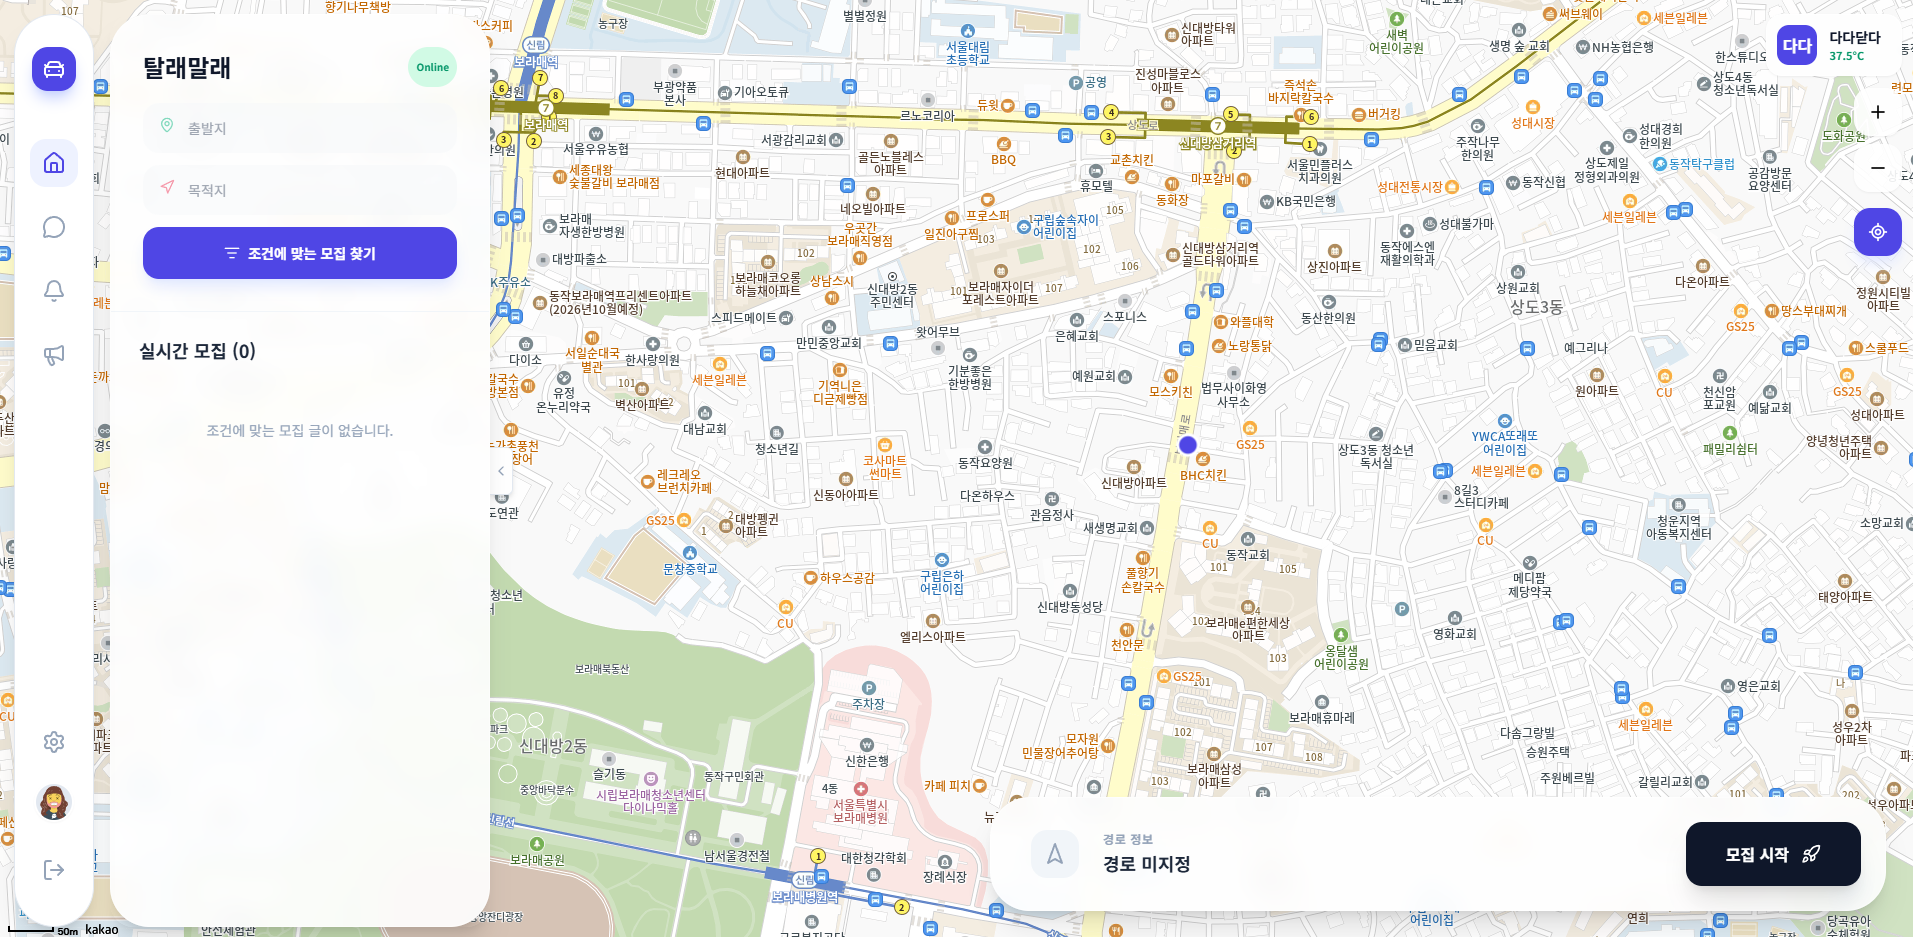
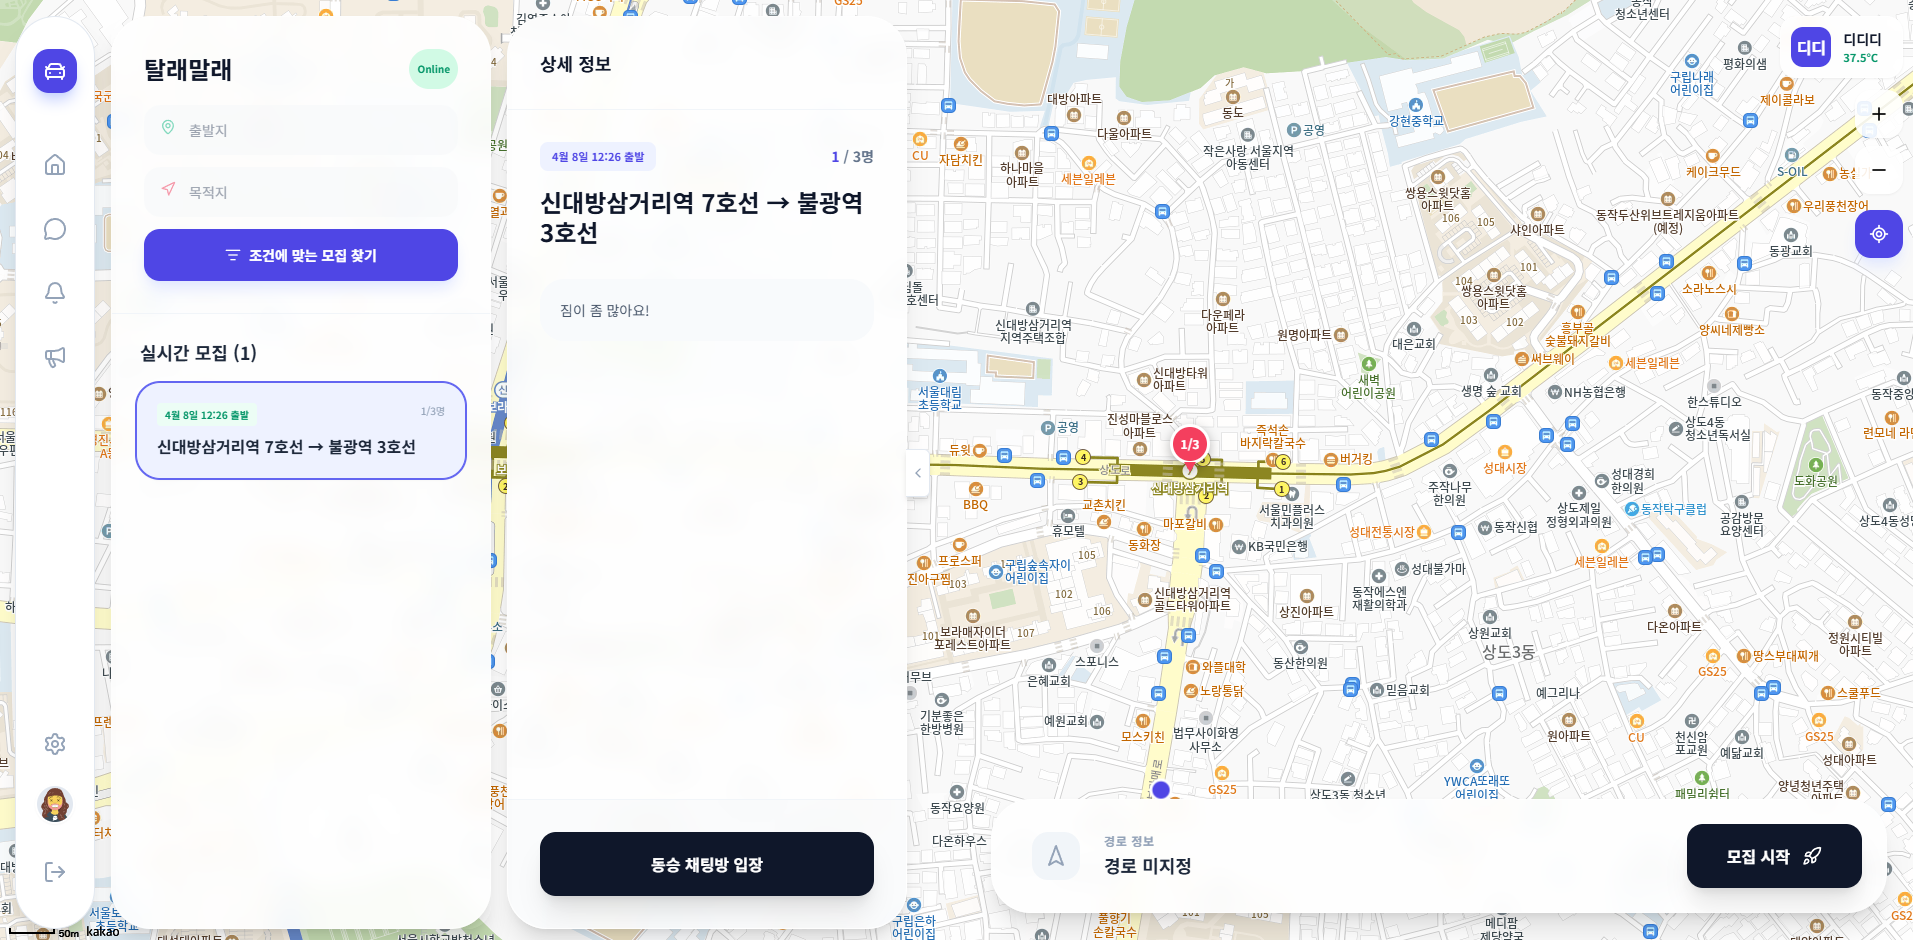
TalleMalle 동시성 보강 + 실시간 브로드캐스트(TS4) 추가
- 트러블슈팅 3: 사고1(데드락 로그)·사고2(갱신 손실) 2분할, 단일 행 락 직렬화로 데드락 여지 해소 서술
- 트러블슈팅 4 신설: WebSocket+STOMP 프로토콜 비교표·Pub/Sub 브로드캐스트·AFTER_COMMIT, socket-sequence 다이어그램 연결
- nGrinder 이미지 TPS-only로 정리(응답시간 차트 제거)
- 메인 이미지 교체 + 참여/시퀀스 증거 이미지 추가
- 본문 산문 따옴표 전부 제거

diff --git a/layouts/projects/single.html b/layouts/projects/single.html
@@ -188,6 +188,25 @@
     .pd-content tbody tr:nth-child(even) td {
         background: rgba(255, 255, 255, 0.02);
     }
+    .pd-content .highlight,
+    .pd-content pre.chroma {
+        background: #0b1020 !important;
+    }
+    .pd-content pre.chroma {
+        padding: 0.9rem 1.1rem;
+        border: 1px solid var(--border);
+        border-radius: 10px;
+        overflow-x: auto;
+        margin: 1.1rem 0;
+        font-size: 0.84rem;
+        line-height: 1.55;
+    }
+    .pd-content pre code {
+        background: transparent;
+        padding: 0;
+        border-radius: 0;
+        font-size: inherit;
+    }
 
     /* ===== 추가 섹션 (기술 스택 / 아키텍처 / 기여) ===== */
     .pd-block {

diff --git a/content/projects/tallemalle.md b/content/projects/tallemalle.md
@@ -28,7 +28,7 @@ contributions:
       - "무한 스크롤 & 클라이언트 필터링"
 ---
 
-## 🗺 메인 화면 (담당 영역)
+## 메인 화면 (담당 영역)
 
 저는 서비스의 핵심 진입점인 **메인 화면**을 담당했습니다. 카카오 지도 API를 활용해 사용자 위치를 기반으로 주변 모집글을 지도 위에 실시간으로 표시했습니다.
 
@@ -36,9 +36,9 @@ contributions:
 - **지도** - 위치별 마커를 클릭해 모집글 상세 확인
 - **우측 하단** - 원하는 시간대로 모집글 직접 생성
 
-![메인 화면 - 지도 기반 주변 모집글 조회](images/projects/tallemalle/main.png)
+![TalleMalle 메인 화면 - 지도와 실시간 모집글](images/projects/tallemalle/main.png)
 
-### 🔧 트러블슈팅 1. 모집글 목록 조회 N+1 - 쿼리 1001회를 2회로
+### 트러블슈팅 1. 모집글 목록 조회 N+1 - 쿼리 1001회를 2회로
 
 #### 문제 상황
 
@@ -50,8 +50,6 @@ contributions:
 초당 2.3건밖에 처리하지 못했고, 사용자 입장에서는 **리스트 탭을 누르고 21초 동안 화면이 멈춰 있는** 치명적인 상태였습니다.
 
 ![nGrinder TPS (개선 전) - 평균 약 2.3](images/projects/tallemalle/ngrinder-tps.png)
-
-![nGrinder 평균 응답 시간 / Vuser (개선 전) - 약 21초 · Vuser 52](images/projects/tallemalle/ngrinder-time.png)
 
 #### 원인 분석
 
@@ -94,5 +92,185 @@ contributions:
 
 ![nGrinder TPS (개선 후) - 약 9](images/projects/tallemalle/ngrinder-tps-after.png)
 
-![nGrinder 평균 응답 시간 / Vuser (개선 후) - 약 5초](images/projects/tallemalle/ngrinder-time-after.png)
+### 트러블슈팅 2. 지도 전체 조회 → 화면 경계 조회 + 디바운싱
+
+#### 문제 상황
+
+초기 구현에서는 메인 화면에서 모집 중인 모집글을 전체 조회한 뒤, 프론트엔드에서 지도 영역에 맞게 필터링하는 방식이었습니다. 기능은 동작했지만 두 가지 비효율이 있었습니다.
+
+- **화면 밖 데이터까지 전송** - 사용자가 보고 있는 지도 영역과 무관하게 전국의 모집글을 모두 내려받아, 데이터가 쌓일수록 응답 크기가 선형으로 커졌습니다.
+- **지도 이동마다 과잉 요청** - 지도는 이동·확대·축소가 잦은데, 이동이 멈출 때마다 발생하는 `idle` 이벤트가 연속으로 수십 번 발생해 짧은 시간에 API가 반복 호출됐습니다. 서버 부하는 물론 카카오 지도 API 쿼터까지 위협하는 구조였습니다.
+
+#### 해결 과정
+
+화면에 보이는 만큼만, 이동이 끝났을 때만 조회한다는 목표로 세 가지를 적용했습니다.
+
+**① 지도 경계 좌표 기반 조회**
+
+프론트엔드에서 지도의 남서(SW)·북동(NE) 좌표를 파라미터로 전송하고, 백엔드는 위·경도 범위 조건으로 화면 안에 있는 모집글만 조회하도록 변경했습니다.
+
+```java
+// RecruitRepository
+@Query("SELECT r FROM Recruit r JOIN FETCH r.owner " +
+       "WHERE r.startLat BETWEEN :swLat AND :neLat " +
+       "AND r.startLng BETWEEN :swLng AND :neLng " +
+       "AND r.status != :status")
+Slice<Recruit> findActiveRecruitsInBounds(...);
+```
+
+```js
+// Map.vue — 지도 이동이 멈추면 현재 경계 좌표를 부모로 전달
+window.kakao.maps.event.addListener(map, 'idle', () => {
+  const bounds = map.getBounds()
+  emit('bounds-changed', {
+    swLat: bounds.getSouthWest().getLat(), swLng: bounds.getSouthWest().getLng(),
+    neLat: bounds.getNorthEast().getLat(), neLng: bounds.getNorthEast().getLng(),
+  })
+})
+```
+
+**② 디바운싱** (300ms)
+
+지도 이동 중 연속으로 발생하는 요청을 막기 위해, 마지막 이벤트로부터 0.3초간 추가 입력이 없을 때 단 1회만 API를 호출하도록 처리했습니다.
+
+```js
+// Main.vue
+let mapSearchTimeout = null
+const handleSearchRecruits = (bounds) => {
+  if (mapSearchTimeout) clearTimeout(mapSearchTimeout) // 이전 예약 취소
+  mapSearchTimeout = setTimeout(async () => {
+    const res = await api.searchRecruits({ ...bounds, page, size })
+    // ...
+  }, 300)
+}
+```
+
+**③ Slice 페이징 + 무한 스크롤**
+
+경계 안의 결과도 한 번에 다 내리지 않고, `Page` 대신 `Slice`를 사용해 COUNT 쿼리 없이 `limit + 1`로 다음 페이지 존재 여부만 판단하도록 했습니다. 사용자가 목록을 스크롤할 때 다음 페이지를 이어서 로드합니다.
+
+#### 결과
+
+- **화면 밖 데이터 전송 제거** → 응답 페이로드와 조회 대상이 지도 영역 단위로 한정되어, 전체 모집글 수가 늘어도 조회 비용이 일정하게 유지
+- **지도 이동 중 다수 요청을 최종 1회로 축소** → 불필요한 네트워크 요청 약 90% 차단
+- **카카오 지도 API 호출량 감소** → 쿼터 여유 확보
+
+같은 전체 조회 설계에서 출발한 문제였지만, 트러블슈팅 1이 **레코드당 쿼리 수**(N+1)를 줄인 것이라면, 트러블슈팅 2는 **조회하는 레코드 수와 요청 빈도 자체**를 줄인 개선이었습니다. 데이터가 많아질수록 둘의 효과가 함께 커지는 구조를 만든 것이 핵심입니다.
+
+![지도 조회 흐름 - 디바운싱 → Bounds 공간 쿼리 → Slice 응답](images/projects/tallemalle/bounds-sequence.png)
+
+`Vue 3` `Kakao Maps API` `Debouncing` `Spring Data JPA` `Slice` `위경도 범위 쿼리`
+
+### 트러블슈팅 3. 동시 참여 요청의 동시성 제어 - 오버부킹 차단
+
+#### 문제 상황
+
+택시 합승은 **정원이 정해진 한정 자원**입니다. 정원 4명 중 마지막 1자리가 남은 모집글에 **여러 명이 동시에 참여 버튼을 누르는** 상황이 충분히 발생할 수 있었습니다. 단순한 조회 후 비교 로직은 이 경우 위험합니다. 두 요청이 거의 동시에 들어오면 **둘 다 아직 자리 있음으로 통과**하는 **경쟁 상태**(race condition)가 생깁니다.
+
+이를 검증하기 위해 한 모집글에 동시 참여 요청을 몰아 부하 테스트를 진행하자, 두 가지 사고가 관측됐습니다.
+
+**사고 1. 데드락으로 인한 500 에러**
+
+여러 트랜잭션이 동시에 락을 확보하려다 서로의 락을 기다리는 교착 상태(deadlock)에 빠졌고, 일부 요청이 강제 롤백되며 Vuser에게 500 에러가 반환됐습니다.
+
+```text
+java.sql.SQLTransactionRollbackException: (conn=84) Deadlock found when trying to get lock; try restarting transaction
+	at org.mariadb.jdbc.export.ExceptionFactory...
+```
+
+**사고 2. 갱신 손실로 인한 인원수 불일치**
+
+`participations` 테이블에는 **4명**이 들어갔는데 `recruits.current_capacity` 카운터는 **2**에 그쳐 데이터 정합성이 깨졌습니다. 동시에 들어온 트랜잭션들이 **같은 값을 읽고 각자 +1 해 덮어쓰면서**(lost update) 증가분이 유실된 것입니다.
+
+![문제 - participations 4건 (실제 참여자)](images/projects/tallemalle/join-before-participations.png)
+
+![문제 - current_capacity 2 (실제 4와 불일치)](images/projects/tallemalle/join-before-capacity.png)
+
+#### 락 전략 의사결정
+
+동시성 제어 방식을 두고 낙관적 락과 비관적 락을 비교했습니다.
+
+| 방식 | 동작 | 이 상황에서의 판단 |
+|------|------|---------------------|
+| 낙관적 락 (`@Version`) | 충돌을 사후 감지 → 예외 발생 → 재시도 | 마지막 한 자리에 요청이 몰리면 **충돌이 잦아** 재시도 비용·실패율이 큼 ❌ |
+| **비관적 락** (`PESSIMISTIC_WRITE`) | DB 행 배타락으로 동시 요청을 **직렬화** | 임계 영역이 짧고 충돌이 잦은 합승 시나리오에 적합 ✅ **채택** |
+
+티켓팅처럼 **충돌 빈도가 높은 환경**에서는 충돌을 사후에 되돌리는 낙관적 락보다, 처음부터 한 줄로 세우는 비관적 락이 더 안정적이라고 판단했습니다.
+
+#### 해결 과정
+
+참여 처리 시 모집글 행에 **배타락**(`SELECT ... FOR UPDATE`)을 걸어 동시 요청을 직렬화했습니다.
+
+```java
+// RecruitRepository
+@Lock(LockModeType.PESSIMISTIC_WRITE)
+@Query("SELECT r FROM Recruit r WHERE r.idx = :idx")
+Optional<Recruit> findByIdForUpdate(@Param("idx") Long idx);
+```
+
+```java
+// RecruitService.join() — 락 획득 후 검사·증가가 하나의 임계 영역에서 수행됨
+@Transactional
+public boolean join(AuthUserDetails user, Long recruitIdx) {
+    Recruit recruit = recruitRepository.findByIdForUpdate(recruitIdx)  // 🔒 배타락 획득
+            .orElseThrow(...);
+    // 정원 검사
+    if (recruit.getStatus() == RecruitStatus.FULL
+            || recruit.getCurrentCapacity() >= recruit.getMaxCapacity()) {
+        throw new BaseException(BaseResponseStatus.RECRUIT_FULL);
+    }
+    // ... 중복 참여 확인 ...
+    recruit.addParticipant();  // 인원 +1, 정원 도달 시 FULL 전환
+    return true;
+}
+```
+
+핵심은 **정원 검사 → 인원 증가가 락 안에서 하나의 단위로 처리**된다는 점입니다. 먼저 락을 획득한 요청이 커밋하기 전까지 다른 요청은 대기하므로, 뒤 요청은 **갱신된 최신 인원**을 보고 정확히 차단됩니다. 또한 모든 요청이 **모집글 행 하나에 대한 락을 동일한 지점에서 가장 먼저 획득**하므로, 락 획득 순서가 어긋나며 생기던 데드락의 여지도 사라졌습니다.
+
+#### 결과
+
+비관적 락 적용 후에는 동시 요청이 몰려도 **데드락과 갱신 손실이 모두 사라졌고**, `current_capacity`가 실제 참여자 수와 **정확히 일치**(4 = 4)하여 정원 초과 없이 정확히 마감되고 모집 인원 데이터의 **정합성이 보장**됩니다.
+
+![개선 후 - participations 4건 (실제 참여자)](images/projects/tallemalle/join-after-participations.png)
+
+![개선 후 - current_capacity 4 (정합성 일치)](images/projects/tallemalle/join-after-capacity.png)
+
+![동시 참여 락 흐름 - A 락 획득·커밋 → B·C 대기 후 갱신값 읽고 차단](images/projects/tallemalle/concurrency-sequence.png)
+
+`Spring Data JPA` `Pessimistic Lock` `@Transactional` `Race Condition` `동시성 제어`
+
+### 트러블슈팅 4. 모집글 상태 변경 실시간 동기화 - WebSocket + STOMP 브로드캐스트
+
+#### 문제 상황
+
+지도 위 모집글은 **여러 사용자가 동시에 보고 있는 공유 화면**입니다. A가 참여해 정원이 차거나 모집글이 마감돼도 B·C의 지도에는 여전히 참여 가능으로 보이면, 이미 사라진 자리에 참여를 시도하다 실패하는 혼선이 생깁니다. 모집글의 **상태 변경(참여·생성·마감)을 구독 중인 모든 클라이언트에게 즉시 전파**할 방법이 필요했습니다.
+
+가장 단순한 방법은 클라이언트가 주기적으로 다시 조회하는 폴링이지만, 통신 방식을 비교한 끝에 폴링을 배제했습니다.
+
+| 방식 | 특징 | 판단 |
+|------|------|------|
+| Short Polling | 주기적 HTTP 요청 | 잦은 요청으로 서버 부하가 크고 실시간성 보장이 어려움 ❌ |
+| SSE (Server-Sent Events) | 서버→클라이언트 단방향 | 단방향이라 향후 채팅 등 양방향 기능 확장에 부적합 ❌ |
+| **WebSocket + STOMP** | 양방향 + Pub/Sub 라우팅 | 구독 기반 메시지 라우팅으로 실시간 전파에 적합 ✅ **채택** |
+
+순수 WebSocket은 메시지 포맷과 라우팅을 직접 구현해야 하는 부담이 큽니다. 반면 **STOMP**는 Pub/Sub(발행·구독) 모델을 기본 지원해 `/topic/all-calls`(전체 지도)나 `/topic/chat/{id}`(특정 방) 단위의 효율적인 메시지 라우팅이 가능했습니다.
+
+#### 해결 과정
+
+모집글 상태가 바뀌면 그 변경을 **구독 중인 모든 클라이언트에게 STOMP로 브로드캐스트**하도록 구성했습니다.
+
+- **발행 (Publisher)** - 모집글 상태 변경(참여·생성·마감) 이벤트가 발생하면 서버가 메시지를 발행
+- **메시지 브로커 (STOMP)** - `/topic/all-calls` 채널을 구독 중인 클라이언트에게 페이로드를 라우팅
+- **구독 (Subscriber)** - 지도를 보고 있는 모든 클라이언트가 이 채널을 구독하고, 수신 즉시 마커·목록을 갱신
+
+특히 DB 트랜잭션과 메시지 발행의 정합성을 위해, 참여·마감 같은 변경이 **DB에 실제로 커밋된 뒤에만**(`AFTER_COMMIT`) 브로드캐스트가 나가도록 Spring Event로 분리했습니다. 트랜잭션이 롤백되면 잘못된 상태가 전파되는 일이 없습니다.
+
+#### 결과
+
+- 한 사용자의 참여·마감이 **같은 화면을 보는 모든 사용자에게 즉시 반영**되어, 이미 마감된 모집글에 참여를 시도하는 혼선을 제거
+- `/topic/all-calls`(지도 전체)와 `/topic/chat/{id}`(채팅방) 채널을 분리해, 같은 STOMP 인프라 위에서 **실시간 지도 동기화와 채팅을 함께 확장**할 수 있는 구조 확보
+
+![실시간 브로드캐스트 흐름 - 상태 변경 이벤트 → STOMP /topic/all-calls → 구독자 일괄 수신](images/projects/tallemalle/socket-sequence.png)
+
+`WebSocket` `STOMP` `Pub/Sub` `Spring Event` `실시간 동기화`
 
